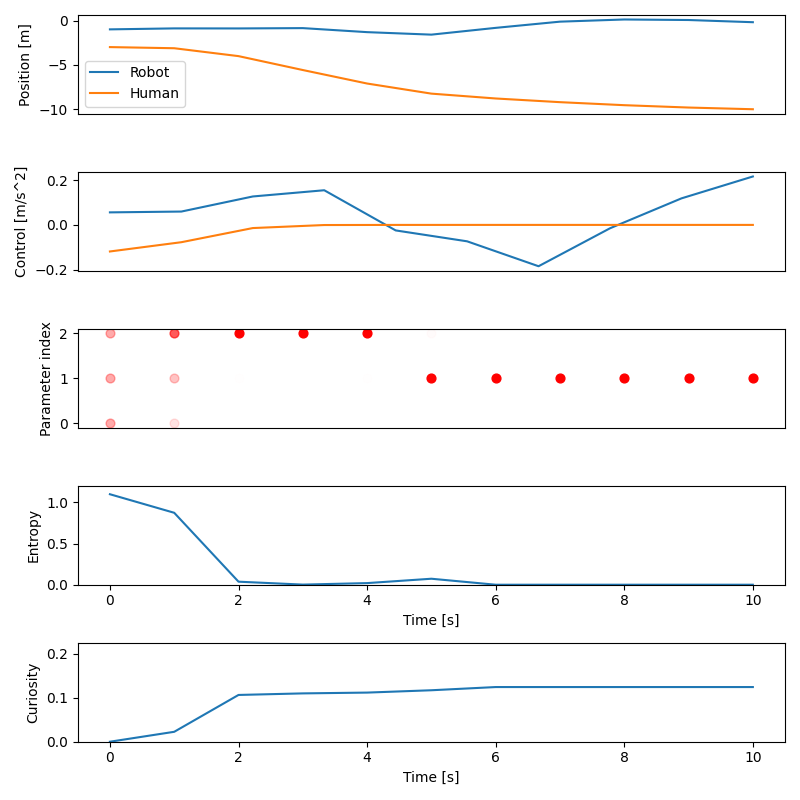
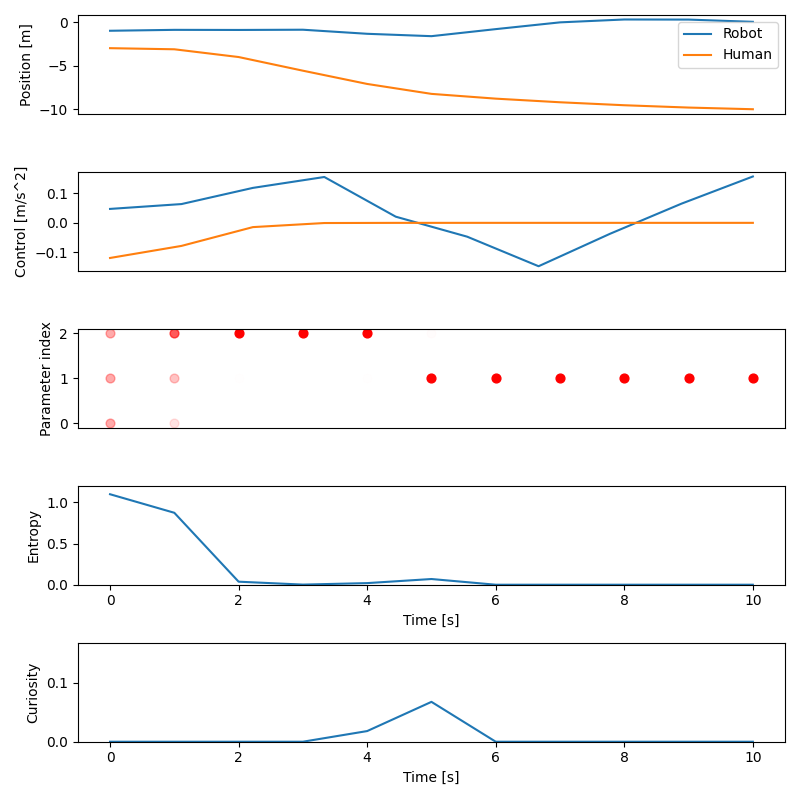
adam optimizer

diff --git a/linear_dynamics.py b/linear_dynamics.py
@@ -1,4 +1,6 @@
 import jax
+import optax
+
 from jax import numpy as jnp
 
 # jax.config.update("jax_disable_jit", True)
@@ -84,8 +86,6 @@ def eval_J_i(x: jnp.ndarray, u: jnp.ndarray, b_0: jnp.ndarray) -> jnp.ndarray:
     Outputs:
     - J_i: entropy of the belief at time T
     """
-    x = x[:-2]
-    u = u[:-2]
     return eval_H(eval_b_t(x, u, b_0))
 
 
@@ -108,7 +108,7 @@ def eval_E_J(
     E_x = eval_E_x(x_0, u_R, b_0)
     E_u_H = eval_E_u_H(E_x, thetas)
     E_u = jnp.concatenate([u_R, E_u_H[:-1]], axis=1)
-    return (1 - λ) * eval_J_r(E_x, E_u) + λ * eval_J_i(E_x, E_u, b_0)
+    return eval_J_r(E_x, E_u) + λ * eval_J_i(E_x, E_u, b_0)
 
 
 def eval_u_H(x: jnp.ndarray, theta: jnp.ndarray) -> jnp.ndarray:
@@ -326,9 +326,10 @@ def transition_model(x_query: jnp.ndarray, x: jnp.ndarray, u: jnp.ndarray):
 horizon = 7  # time horizon. Control inputs are u_0, u_1, ..., u_{horizon-1}
 u_R_init = jnp.array([[0.0] for _ in range(horizon)])  # init guess for u_R
 λ_init = 0.0  # curiosity parameter
-λ_scale = 0.1  # curiosity parameter scaling factor
-learning_rate = 0.0001
-descent_steps = 200
+λ_scale = 1.0  # curiosity parameter scaling factor
+learning_rate = 0.001
+optimizer = optax.adam(learning_rate)
+descent_steps = 600
 mpc_steps = 10
 rng_key = jax.random.PRNGKey(0)
 
@@ -351,13 +352,16 @@ sampled_w = jax.random.multivariate_normal(
 def solve_for_u_R(x_0, u_R_init, b, λ):
     # Note: Return last element of descent_trajectory instead of the whole for
     # efficiency gains
-    def grad_descent_scan(u_R, _):
+    def grad_descent_scan(carry, _):
+        u_R, opt_state = carry
         grad = jax.grad(eval_E_J_jit, argnums=1)(x_0, u_R, b, λ)
-        u_R_new = u_R - learning_rate * grad
-        return u_R_new, (u_R_new, jnp.linalg.norm(grad))
+        updates, opt_state = optimizer.update(grad, opt_state)
+        u_R_new = optax.apply_updates(u_R, updates)
+        return (u_R_new, opt_state), (u_R_new, jnp.linalg.norm(grad))
 
+    opt_state = optimizer.init(u_R_init)
     _, descent_trajectory = jax.lax.scan(
-        grad_descent_scan, u_R_init, jnp.arange(descent_steps)
+        grad_descent_scan, (u_R_init, opt_state), jnp.arange(descent_steps)
     )
     return descent_trajectory
 
@@ -367,7 +371,7 @@ def update_λ(b_0, b_1, λ):
     return jax.lax.cond(
         ΔH > 0.0,
         lambda λ: λ + λ_scale * ΔH,
-        lambda λ: jnp.clip(λ - λ_scale * ΔH, 0.0, None),
+        lambda λ: jnp.clip(λ - λ_scale, 0.0, None),
         λ,
     )
 
@@ -388,6 +392,9 @@ def run_mpc(x_init, u_R_init, b_init, λ_init, w, mpc_steps):
     update_λ_jit = jax.jit(update_λ)
     for t in range(mpc_steps):
         time_start = time.time()
+        optimization_results = solve_for_u_R_jit(x_0, u_R_init, b_0, λ_0)
+        u_R_0 = optimization_results[0][-1]
+        final_grad_norm = optimization_results[1][-1]
         u_R_0 = solve_for_u_R_jit(x_0, u_R_init, b_0, λ_0)[0][-1]
         x_1 = eval_x_jit(
             x_0, u_R_0[jnp.newaxis, 0], params_true, w[jnp.newaxis, t]
@@ -409,7 +416,10 @@ def run_mpc(x_init, u_R_init, b_init, λ_init, w, mpc_steps):
         u_R_init = u_R_0
         λ_0 = λ_1
 
-        print(f"Step {t}: {time.time() - time_start:.2f}s, λ_1: {λ_1:.3f}")
+        print(
+            f"{t}:{time.time() - time_start:.2f}s, "
+            f"λ_1:{λ_1:.3f}, grad norm:{final_grad_norm:.3f}"
+        )
 
     return x, u_R, b, λ
 
@@ -456,6 +466,7 @@ ax[1].tick_params(
 )
 
 for t, belief in zip(time_vec, b):
+    belief = belief / jnp.sum(belief)  # Shouldn't be necessary
     for i, belief_value in enumerate(belief):
         ax[2].scatter(
             t,
